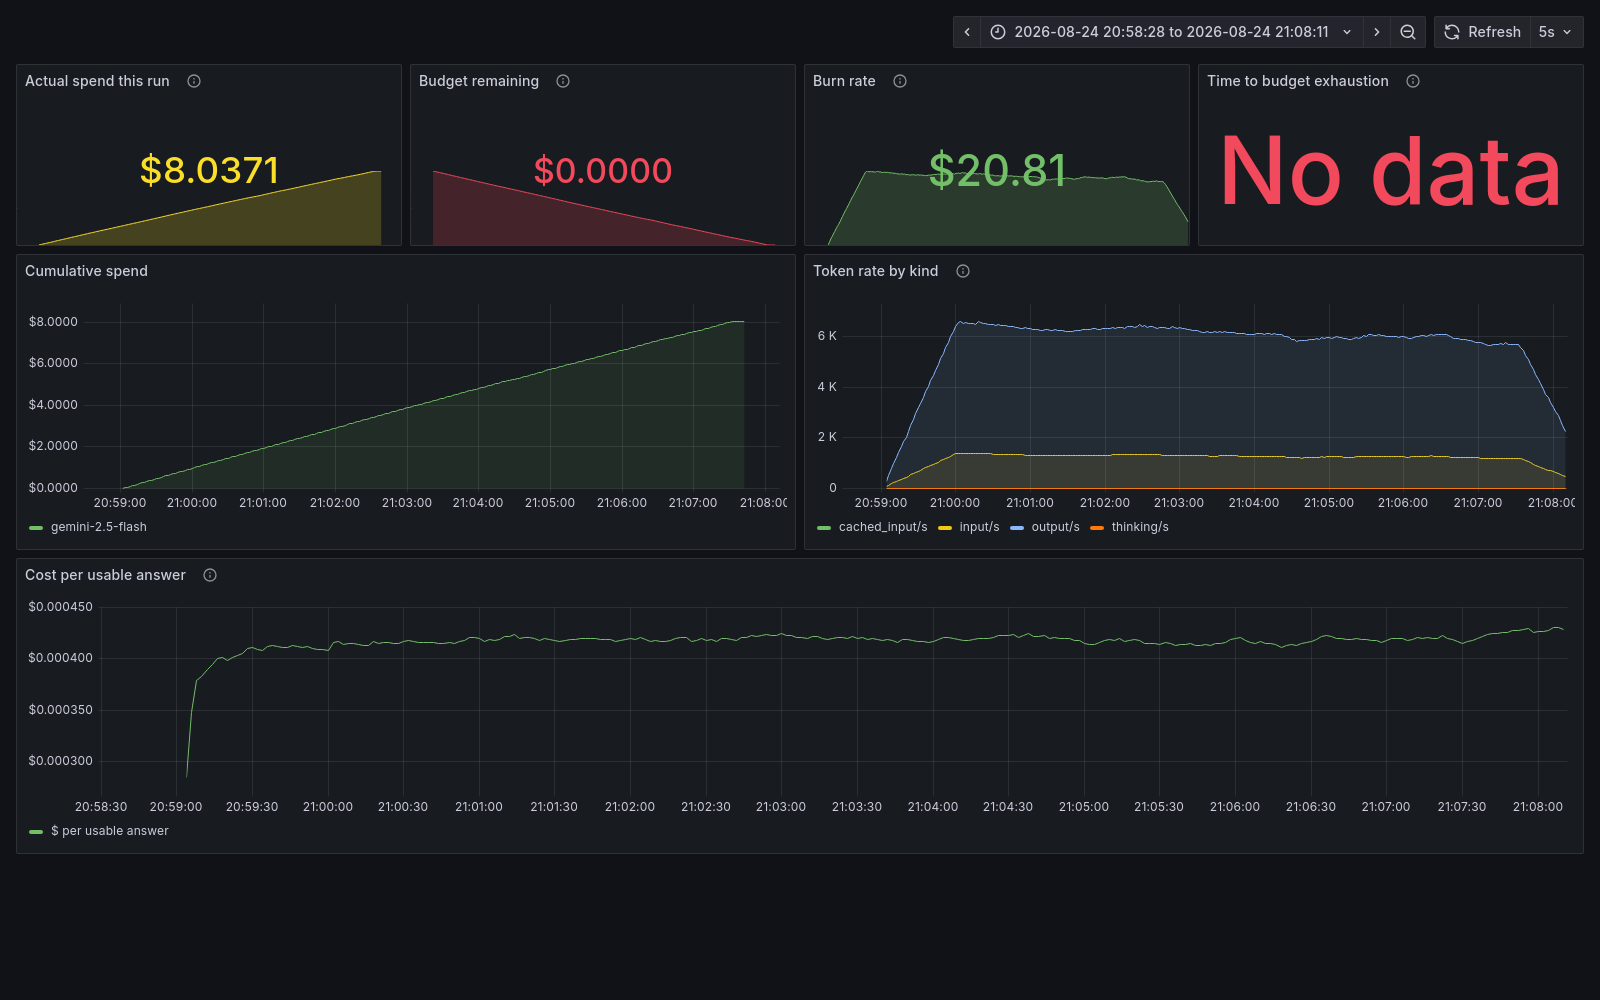
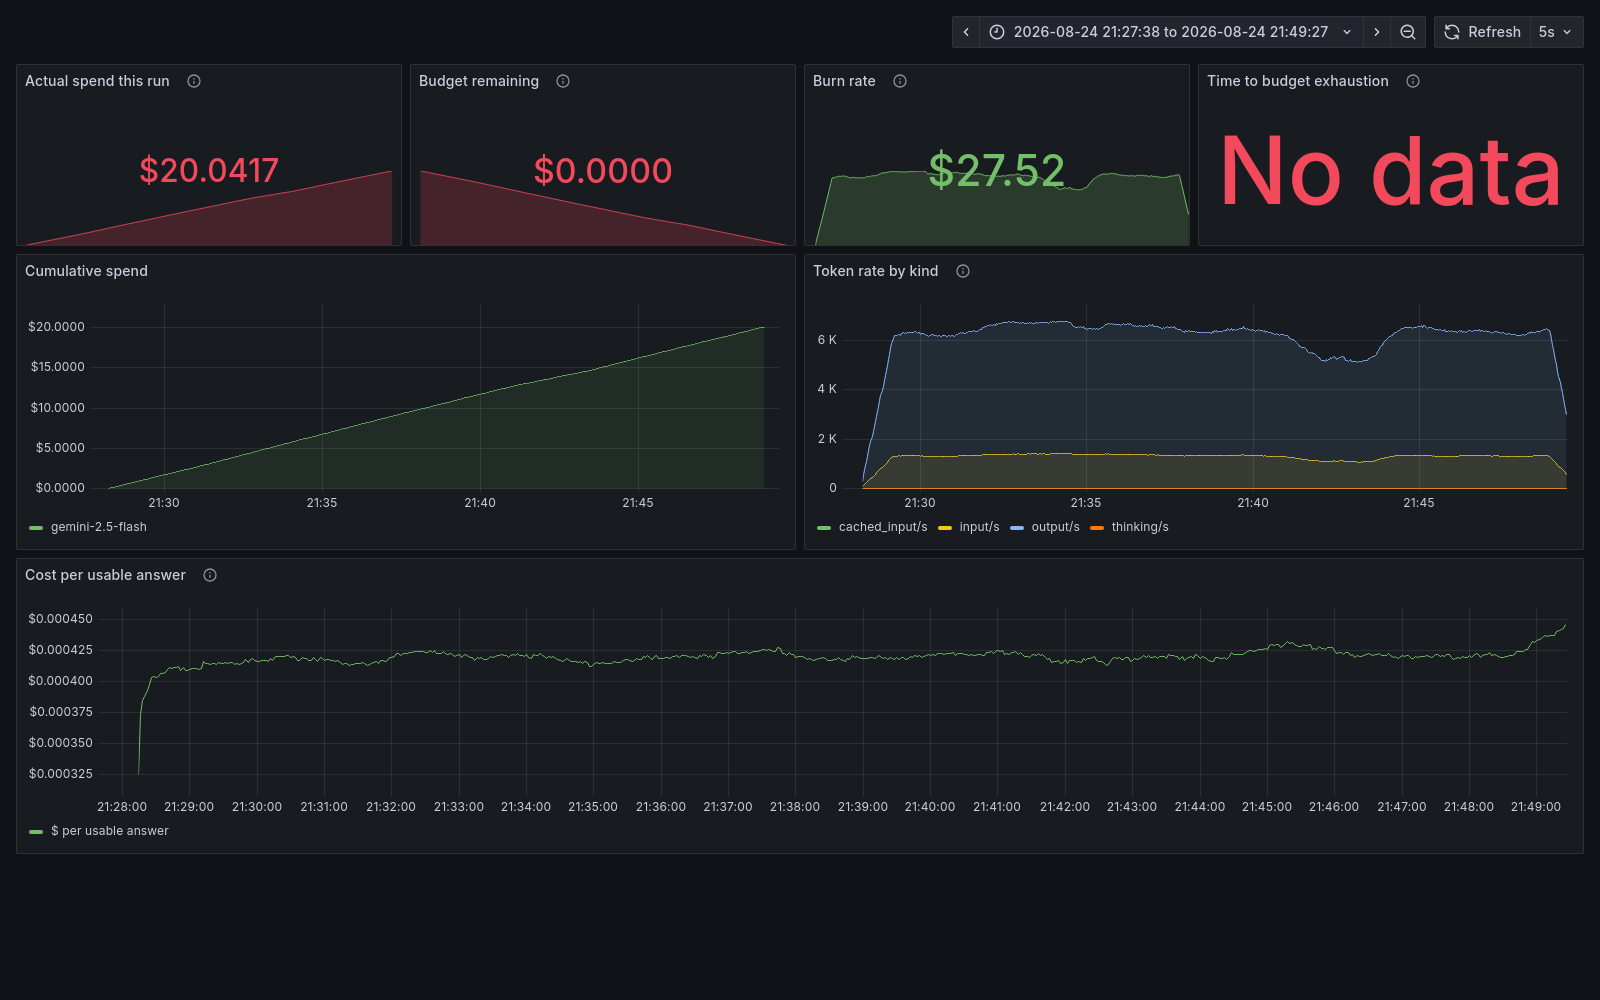
Final validation: 20.8 minutes, 47,677 requests — and a retraction
Ran the longest test the budget allowed, stopped by the $20 breaker after 20.8 minutes
and 47,677 requests at 36.9 rps.

It refutes my own headline from the shorter run. I had reported p99 growing 37% while
p50 stayed flat and read it as a queue forming upstream. Over 21 minutes p99 climbs
into the third quarter and comes back down, oscillating between 3,749 and 9,561 ms
with a linear trend of +20.8 ms per window against a standard deviation of 1,798 ms.
The largest adjacent-block swing within this single run is +81%, so a +37% "trend" is
comfortably inside normal oscillation. I was fitting a line to a wave.

The dashboard shows the actual mechanism. p99 spikes coincide exactly with retry
spikes: windows containing retries average 6,910 ms p99 against 4,717 ms for windows
without, a 47% difference cleanly separated by whether Vertex was pushing back. The
tail is transient vendor degradation lasting a couple of minutes, not a queue growing
in our process. Across all of it, zero failures reached a caller.

What held up across both runs is what I would stake a decision on: throughput within
4%, p50 within 2%, rate-limit rate 0.042% against 0.038%, and truncation at 3.3% in
both. Two independent runs agreeing to three significant figures is what makes the
retraction credible rather than convenient. p99 should be quoted as a range of roughly
3.7 to 9.6 seconds rather than a single number.

Both runs seeing the same ceiling is also weak evidence against Dynamic Shared Quota
[…]

diff --git a/FINDINGS.md b/FINDINGS.md
@@ -850,26 +850,99 @@ Splitting the run in half:
 | **p99** | **5,106 ms** | **6,996 ms** | **+37.0%** |
 
 Throughput and p50 are essentially flat — 5.1% coefficient of variation across
-eighteen windows, and a −0.26 rps-per-window trend that is within noise. **The tail is
-not flat.** p99 grew 37% while p50 moved 2.7%, which is the signature of a queue
-forming somewhere upstream: most requests are unaffected while an increasing minority
-wait.
+eighteen windows, and a −0.26 rps-per-window trend that is within noise. p99 rose 37%
+over the same period, which looked like a queue forming upstream.
 
-That trend is the single best argument for the longer run the budget cut short. Eight
-minutes shows the tail growing; it cannot show where it stops.
+**It was not.** A longer run refutes this; see below. I have left the observation in
+place rather than quietly deleting it, because the mistake is the useful part.
+
+### The p99 growth was not real — a 21-minute run refutes the 8.7-minute one
+
+The shorter run showed p99 rising 37% while p50 stayed flat, and I read that as a
+queue forming upstream. It seemed like the most interesting result in the section.
+
+It does not replicate. A second run at identical settings, stopped by a $20 breaker
+after **20.8 minutes and 47,677 requests**:
+
+| Quarter | Throughput | p50 | p99 |
+|---|---|---|---|
+| Q1 (0–5 min) | 38.1 rps | 1,376 ms | 4,934 ms |
+| Q2 (5–10 min) | 38.7 rps | 1,346 ms | 4,758 ms |
+| Q3 (10–16 min) | 34.4 rps | 1,429 ms | **6,574 ms** |
+| Q4 (16–21 min) | 35.4 rps | 1,395 ms | **4,966 ms** |
+
+p99 climbs into Q3 and then **comes back down**. Across 42 windows it oscillates
+between 3,749 ms and 9,561 ms — a 2.55x range — with a linear trend of +20.8 ms per
+window against a standard deviation of 1,798 ms. The trend is a rounding error next to
+the noise.
+
+The decisive comparison: the largest swing between adjacent 4-window blocks *within
+this run* is **+81%**. My earlier "+37% trend" is comfortably inside the normal
+oscillation of this workload. I was fitting a line to a wave and reporting the slope.
+
+**What I actually had was a sampling artifact**, and 8.7 minutes was not long enough to
+see it. That is the same lesson as the 8-second tests, one order of magnitude up: the
+first mistake was measuring for less time than the quota window, and this one was
+measuring for less time than the tail's own period.
+
+### What the tail actually is: transient vendor events, not a queue
+
+The dashboard makes the mechanism obvious in a way the aggregate does not. p99 sits
+near 4.7 s for most of the run, then spikes to 9.5 s between roughly t+750 s and
+t+900 s, then returns. **The retry series spikes over exactly the same window**, and
+throughput dips from ~37 rps to ~28 rps.
+
+Splitting the 42 windows by whether any retry occurred:
+
+| | Windows | Mean p99 |
+|---|---|---|
+| With retries | 11 | **6,910 ms** |
+| Without retries | 31 | **4,717 ms** |
+
+A 47% difference in tail latency, cleanly separated by whether Vertex was pushing back
+in that window. So the tail is not a queue growing inside our process — it is **Vertex
+having transient degradation episodes lasting a couple of minutes**, during which
+latency inflates, a handful of requests are rate-limited or 5xx, and the retry engine
+absorbs them.
+
+That reframes the operational advice. The tail is not something to tune away; it is a
+property of shared quota. What matters is that the client survives those episodes,
+which it does: 47,677 requests, 24 retries, **zero failures reaching a caller**.
+
+### What held up across both runs
+
+The metrics that were stable are stable in both, which is what makes the retraction
+credible rather than merely convenient:
+
+| | 8.7-min run | 20.8-min run |
+|---|---|---|
+| Requests | 19,223 | **47,677** |
+| Sustained throughput | 35.6 rps | 36.9 rps |
+| p50 | 1,401 ms | 1,379 ms |
+| Rate-limit rate | 0.042% (8) | **0.038% (18)** |
+| Truncation at 512 cap | 3.3% | **3.3%** |
+| Pool saturation peak | 25% | 25% |
+| Event loop lag peak | 4.7 ms | <5 ms |
+
+Two independent runs agreeing to three significant figures on truncation and to within
+10% on rate-limit rate is the part I would stake a production decision on. Throughput
+of ~37 rps at concurrency 64, p50 ~1.4 s, and a rate-limit rate under 0.05% at ~2,200
+requests/minute are settled.
+
+**p99 is not settled and should be quoted as a range**, roughly 3.7–9.6 s, rather than
+as a single number. For a batch workload that is acceptable; for anything with a tail
+SLA it would need provisioned throughput rather than shared quota.
 
 ### What this still does not settle
 
-The run ended at the $8 ceiling, not at a natural conclusion. Two things remain open:
+**Dynamic Shared Quota volatility.** Two runs twelve minutes apart is not a test of
+capacity moving across hours or across a business-hours boundary, which is the actual
+justification for the adaptive limiter in §6b. Both runs saw the same ceiling, which is
+weak evidence *against* volatility on this timescale.
 
-**Dynamic Shared Quota volatility.** Eight minutes at a steady rate does not show
-capacity *moving*, which is the actual justification for the adaptive limiter in §6b.
-A run across hours, ideally spanning a business-hours boundary, would settle whether a
-fixed limit is sufficient.
-
-**Where the tail stops growing.** p99 was still climbing at 8.7 minutes. Whether it
-plateaus, or continues, decides whether this configuration is safe for a sweep that
-runs for an hour.
+Given that, the honest recommendation is now: **use a fixed limit at the measured knee
+and treat the adaptive limiter as optional.** It is off by default, it is tested, and
+the case for enabling it needs evidence that has not been gathered.
 
 ### A confounder I created and removed
 

diff --git a/README.md b/README.md
@@ -37,11 +37,13 @@ Grafana at http://localhost:3000, *Takehome* folder.
 
 ## Three things worth knowing
 
-**Sustained load: 19,223 requests over 8.7 minutes at 35.6 rps.** Vertex rate-limited
-8 of them (0.042%), all recovered by retry — visible only because retries are
-hand-rolled rather than delegated to the SDK. Connection pool peaked at 25% and event
-loop lag at 4.7 ms, so the ceiling is server-side, not ours. Earlier 8-second tests
-understated throughput by 2.5x. See FINDINGS §6f and
+**Sustained load: 47,677 requests over 20.8 minutes at 36.9 rps**, with zero failures
+reaching a caller. Vertex rate-limited 0.038%, all absorbed by retry — visible only
+because retries are hand-rolled rather than delegated to the SDK. The tail is not a
+queue in our process: p99 spikes correlate with vendor retry events (6,910 ms in
+windows with retries vs 4,717 ms without) while the connection pool sat at 25% and
+event loop lag under 5 ms. An apparent p99 trend in a shorter run **did not replicate
+and is retracted**. See FINDINGS §6f and
 [docs/evidence/](docs/evidence/soak-evidence.png).
 
 **Logprobs are free and reveal brands that 100 samples miss.** Token counts are

diff --git a/docs/evidence/README.md b/docs/evidence/README.md
@@ -14,7 +14,7 @@ hand-captured.
 
 | File | What it shows |
 |---|---|
-| `soak-evidence.png` | The 8.7-minute sustained run against Vertex us-central1: 19,223 requests at 35.6 rps. Only `llm_*` panels, because the run drove the provider directly. |
+| `soak-evidence.png` | The final 20.8-minute validation run against Vertex us-central1: 47,677 requests at 36.9 rps. The p99 spike near 21:42 lines up with the retry spike below it — that correlation is the evidence the tail is a vendor event, not a queue in our process. Only `llm_*` panels, because the run drove the provider directly. |
 | `overview.png` | The full 45-panel dashboard. Service and k6 panels are empty for this window by design — see below. |
 | `cost.png` | Spend, burn rate and cost per usable answer. |
 
